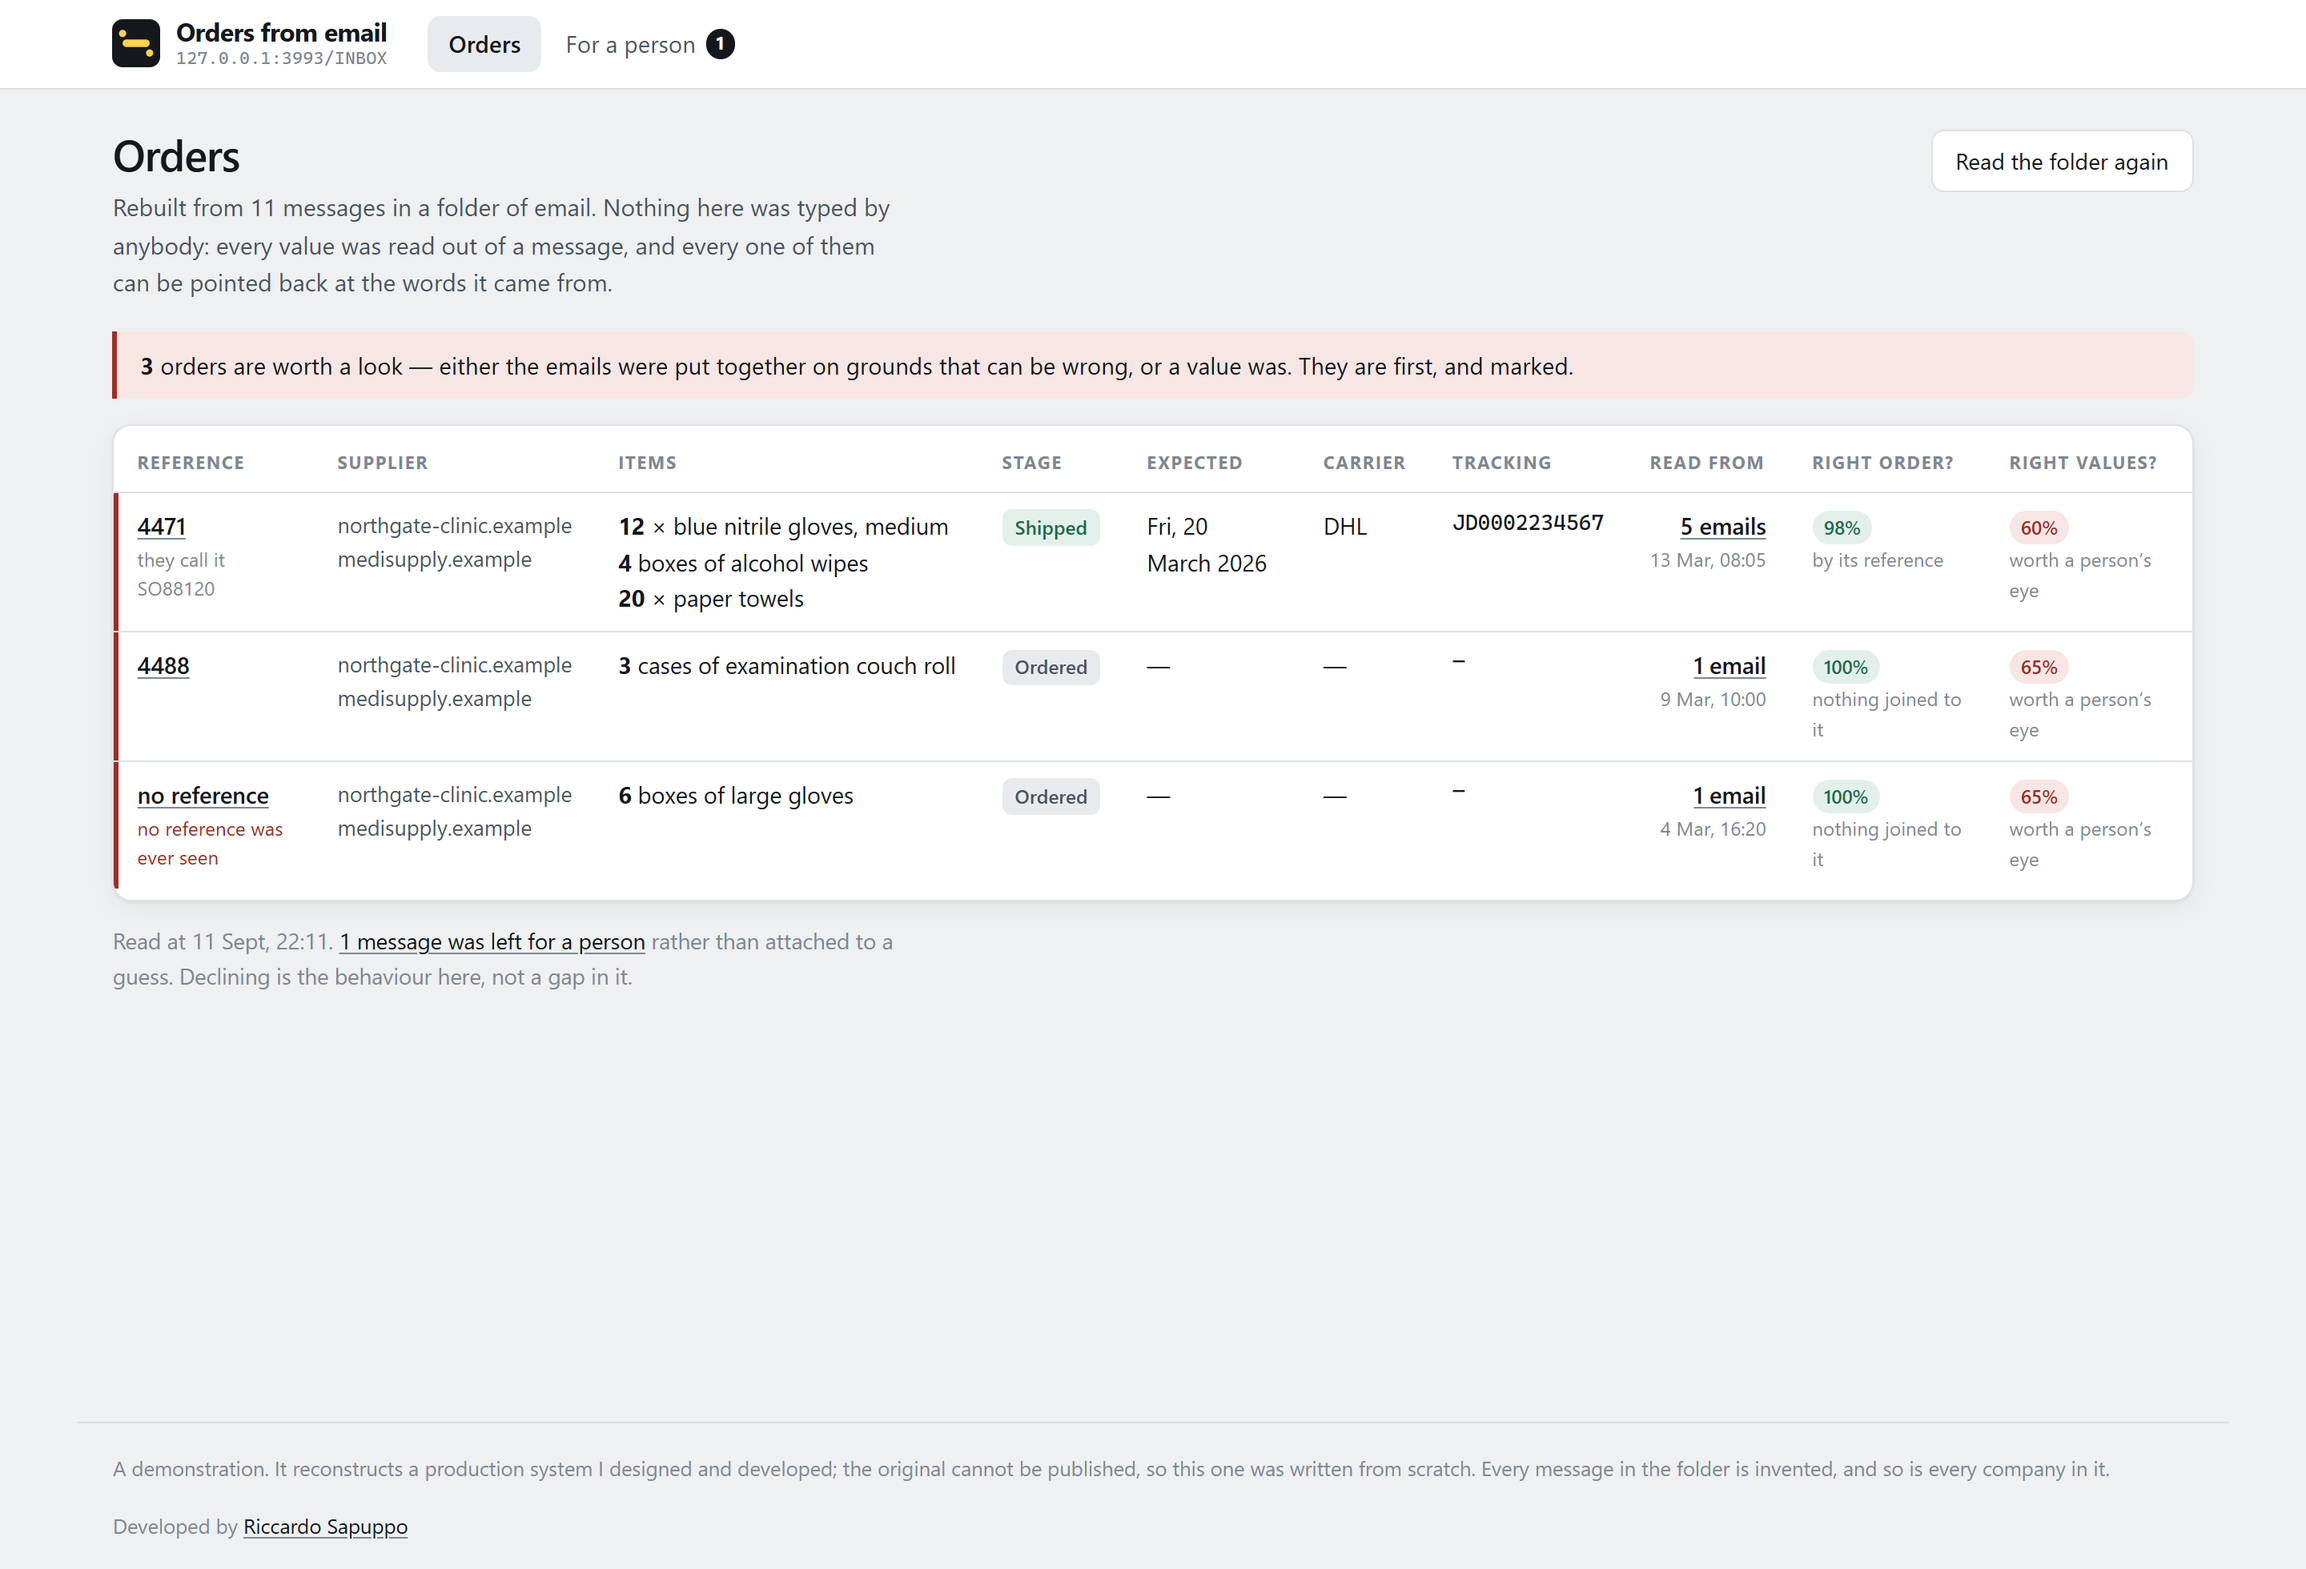
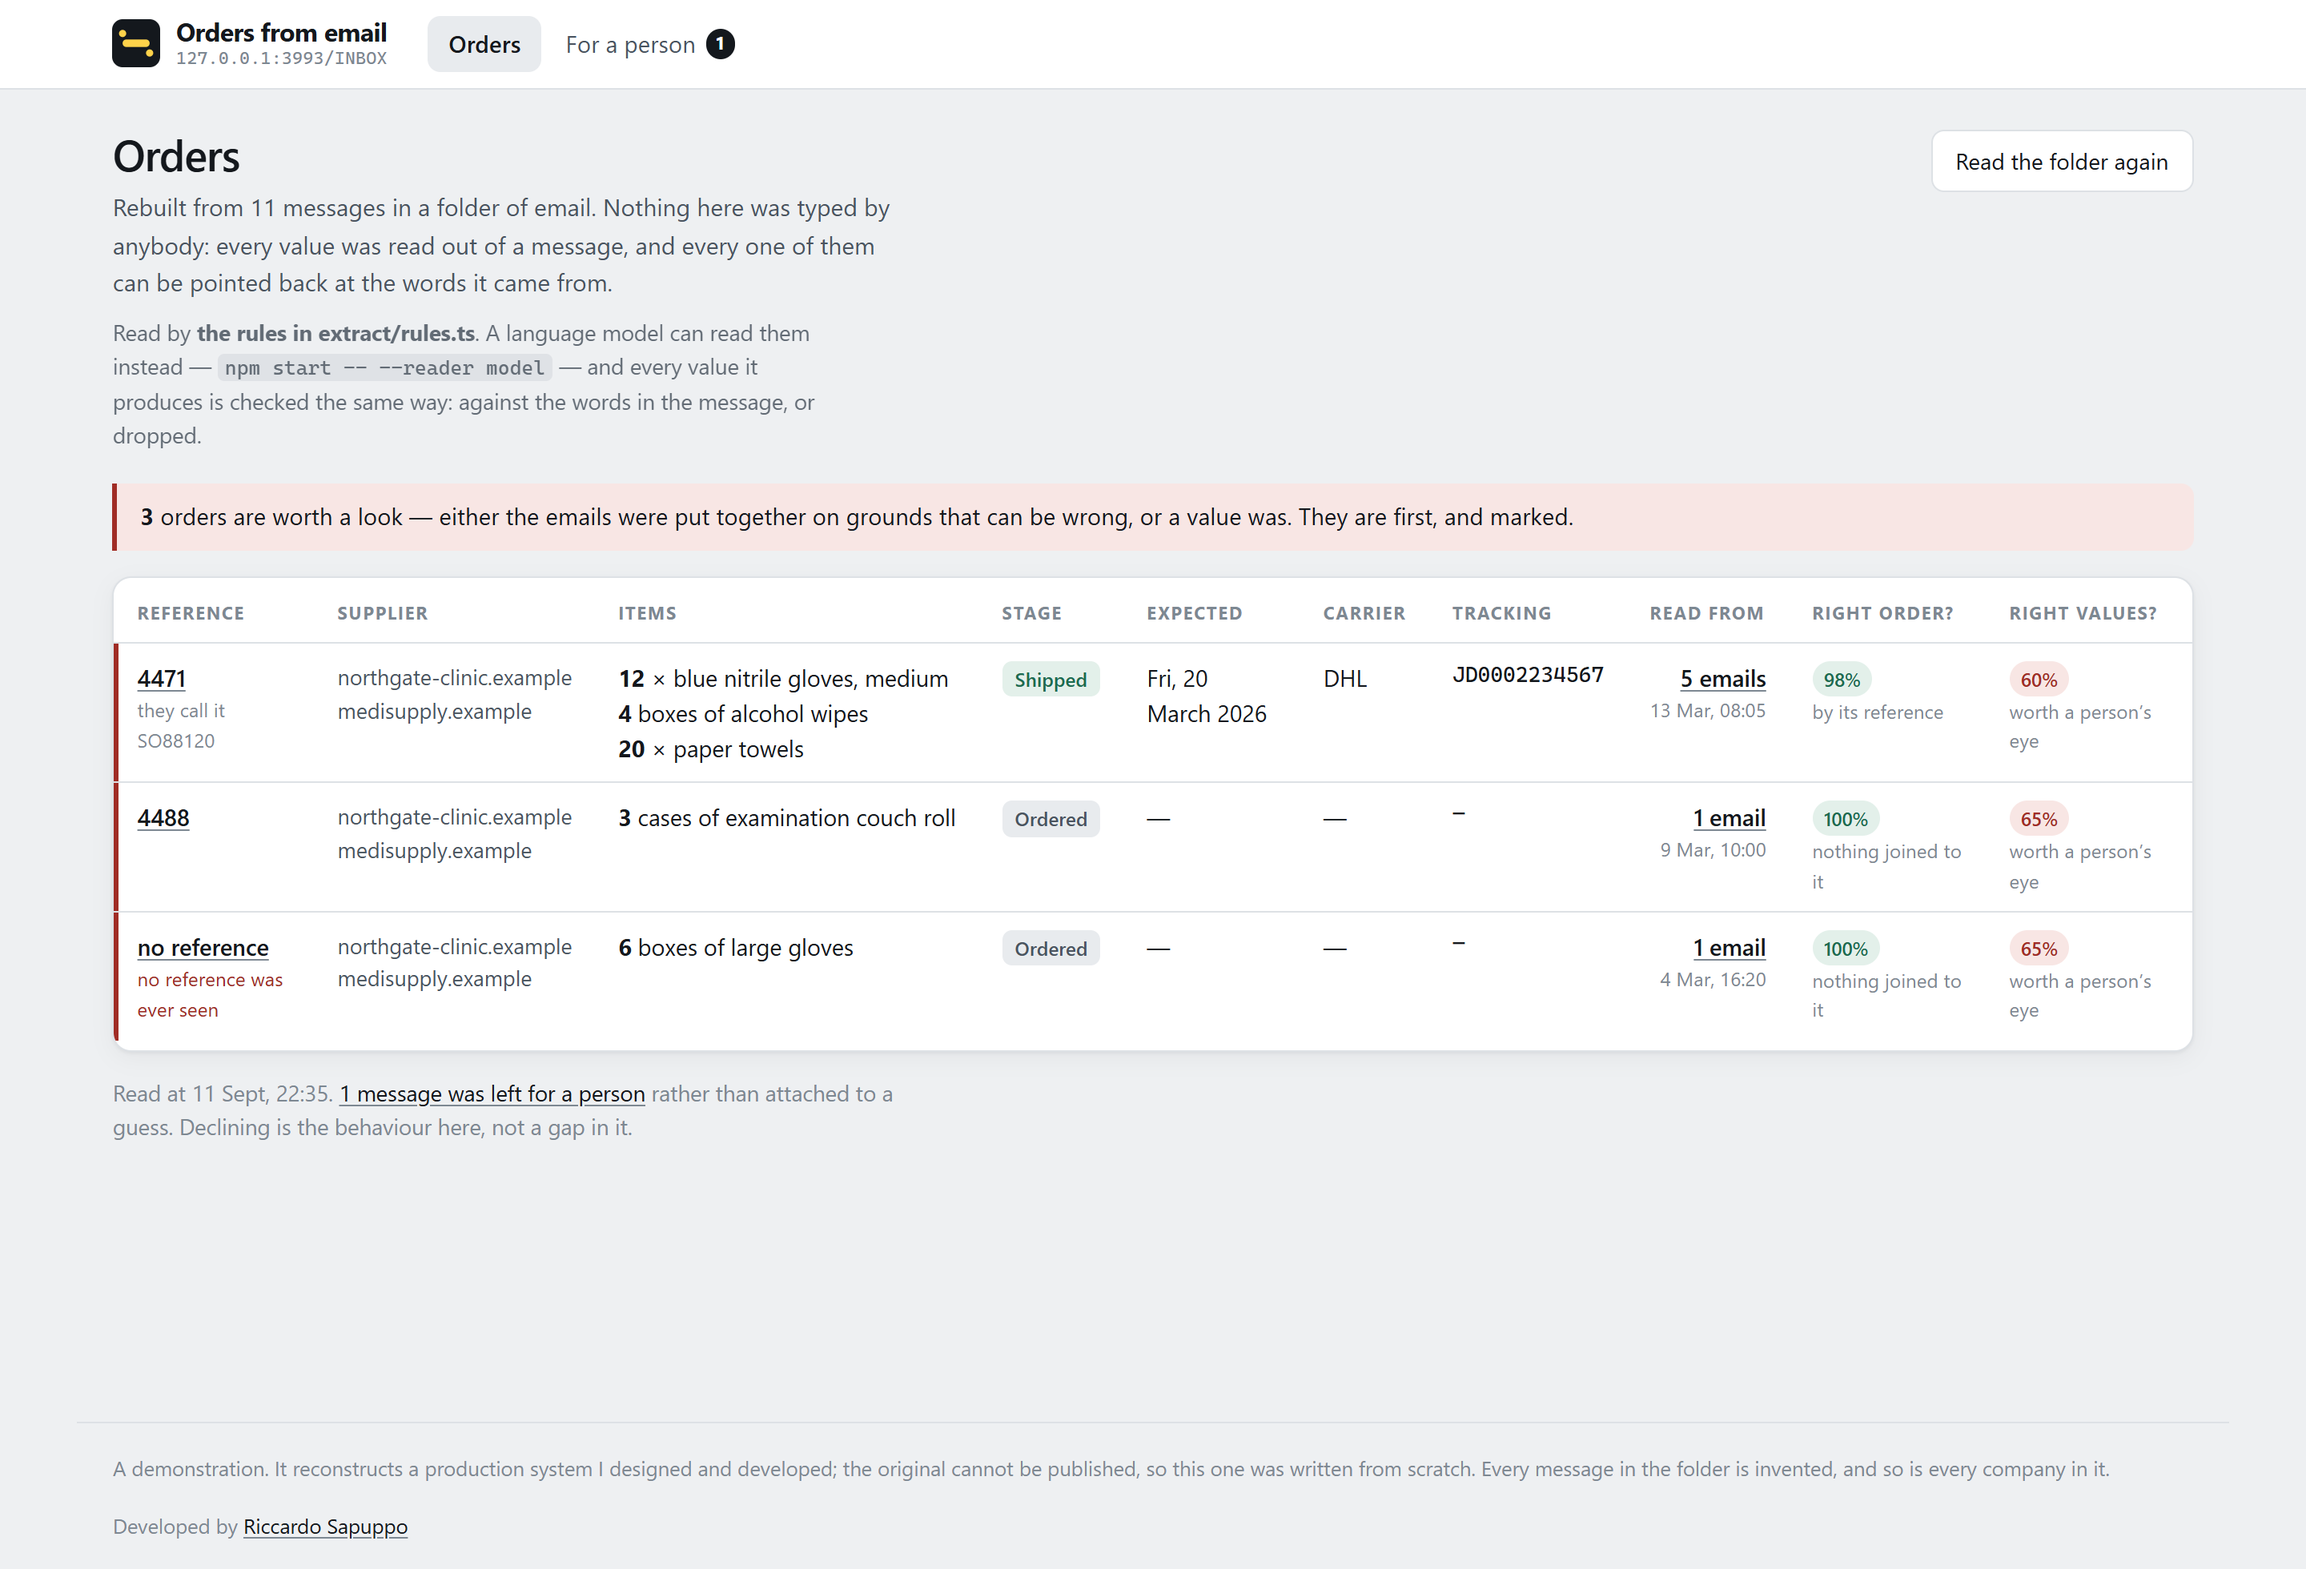
Saying what this is: to the port, and to the person looking at it
Two complaints, a day apart, with the same shape underneath: the program knew
something and did not say it.

── The port ────────────────────────────────────────────────────────────────

`npm start` built for fourteen seconds and then stopped: "Something is already
listening on 127.0.0.1:3993. Try: npm run mailbox -- --port 3994." What was on
3993 was a mailbox this project had started itself and not let go of. Refusing
is safe and useless; telling somebody to go and find it is telling them to do
the program's job.

Killing whatever is there would be worse. 3993, 3200 and 4300 are ports like any
others, and a tool that frees a port by killing the process on it will one day
kill something somebody was using.

So it asks what is there. Each of the three answers with something only it says:
the invented mailbox greets an IMAP client with its own name, the server answers
/api/health with the name of this project, and the interface serves a page with
this project's title in it. The right words mean a leftover of this project, and
it is stopped, by pid, and the run says which. Any other answer is a stranger:
left alone, quoted back -- "something else is there: {"status":"ok","what":...}"
-- so whoever is reading knows which window to close.

The start command and the checks share one list, so they cannot disagree about
what counts as ours. And nothing here trusts that a kill worked: it waits for the
port to actually come back and says so if it does not.
[…]

diff --git a/packages/web/src/app/orders/orders.component.ts b/packages/web/src/app/orders/orders.component.ts
@@ -43,6 +43,24 @@ import { day as asDay, shortWhen } from '../shell/dates';
           by anybody: every value was read out of a message, and every one of them
           can be pointed back at the words it came from.
         </p>
+
+        <!--
+          Which reader produced all of this, said on the page.
+
+          It was in the README and in the flag that chooses it, and nowhere a
+          person looking at the running thing could see. A page whose whole
+          argument is about how its values were obtained has to say which way it
+          obtained them -- and, while the answer is "the rules", that there is
+          another way to obtain them and it is held to the same standard.
+        -->
+        <p class="lede reader">
+          Read by <strong>{{ readBy() }}</strong>.
+          @if (couldBeAModel()) {
+            A language model can read them instead —
+            <code>npm start -- --reader model</code> — and every value it produces
+            is checked the same way: against the words in the message, or dropped.
+          }
+        </p>
       </div>
 
       <button type="button" class="quiet" (click)="reload()" [disabled]="loading()">
@@ -166,6 +184,8 @@ export class OrdersComponent {
   readonly readAt = signal<string | null>(null);
   readonly unlinked = signal(0);
   readonly counted = signal('a mailbox');
+  readonly readBy = signal('the rules');
+  readonly couldBeAModel = signal(true);
   readonly loading = signal(true);
   readonly problem = signal<string | null>(null);
 
@@ -206,6 +226,8 @@ export class OrdersComponent {
       next: (answer) => {
         this.orders.set(answer.orders);
         this.readAt.set(answer.readAt);
+        this.readBy.set(answer.readBy);
+        this.couldBeAModel.set(answer.couldBeAModel);
         this.loading.set(false);
       },
       error: () => {

diff --git a/packages/server/src/api.ts b/packages/server/src/api.ts
@@ -67,6 +67,16 @@ export function build({ folder, source, settings }: Options): Service {
   api.get('/api/health', (req, res) => {
     res.json({
       status: 'ok',
+
+      /*
+       * Which program this is, and not only that something answered.
+       *
+       * 3200 is a port like any other and the next thing to take it will also
+       * answer `{"status":"ok"}`. `npm start` stops what is on its ports only
+       * when what is on them says this — so a leftover of this project is
+       * cleared and a stranger is left alone and named. See tools/lib/ports.mjs.
+       */
+      what: 'order-email-extraction',
       folder: mailbox.folder,
       readAt: mailbox.readAt,
       messages: mailbox.entries.length,
@@ -79,6 +89,20 @@ export function build({ folder, source, settings }: Options): Service {
   api.get('/api/orders', (req, res) => {
     res.json({
       readAt: mailbox.readAt,
+
+      /*
+       * Who read them, sent so the interface can say it.
+       *
+       * Which reader is in use was, for a while, visible only in the README and
+       * in the flag that chooses it. Somebody looking at the running thing
+       * could not tell that a model was an option at all, and the values
+       * themselves only say so once a model has actually read one. A page that
+       * argues about how its values were obtained should say which way it
+       * obtained them.
+       */
+      readBy: settings.reader?.describes ?? 'the rules in extract/rules.ts',
+      couldBeAModel: !settings.reader || settings.reader.name === 'rules',
+
       orders: mailbox.orders.map(summarise),
     });
   });

diff --git a/packages/web/src/app/shell/api.service.ts b/packages/web/src/app/shell/api.service.ts
@@ -128,6 +128,19 @@ export interface Health {
   forAPerson: number;
 }
 
+/** What `GET /api/orders` answers with. */
+export interface TheOrders {
+  readAt: string;
+
+  /** Which reader produced every value below, in words, for the page to say. */
+  readBy: string;
+
+  /** Whether the other reader is still an option, so the page can mention it. */
+  couldBeAModel: boolean;
+
+  orders: OrderSummary[];
+}
+
 @Injectable({ providedIn: 'root' })
 export class ApiService {
   private readonly http = inject(HttpClient);
@@ -136,8 +149,8 @@ export class ApiService {
     return this.http.get<Health>('/api/health');
   }
 
-  orders(): Observable<{ readAt: string; orders: OrderSummary[] }> {
-    return this.http.get<{ readAt: string; orders: OrderSummary[] }>('/api/orders');
+  orders(): Observable<TheOrders> {
+    return this.http.get<TheOrders>('/api/orders');
   }
 
   order(key: string): Observable<{ order: OrderSummary; messages: LinkedMessage[] }> {

diff --git a/packages/web/src/app/orders/orders.component.css b/packages/web/src/app/orders/orders.component.css
@@ -33,3 +33,19 @@ td a {
     min-width: 58rem;
   }
 }
+
+/* Who read all of this. Quieter than the paragraph above it: it is a fact
+   about the page rather than part of the argument, and the command in it is
+   for somebody who wants to try the other reader, not for everybody. */
+.lede.reader {
+  margin-top: 0.55rem;
+  font-size: 0.86rem;
+  opacity: 0.85;
+}
+
+.lede.reader code {
+  font-size: 0.92em;
+  padding: 0.05rem 0.3rem;
+  border-radius: 0.25rem;
+  background: color-mix(in srgb, currentColor 10%, transparent);
+}

diff --git a/README.md b/README.md
@@ -231,6 +231,20 @@ machine uses in turn, and a browser remembers things per origin (service
 workers, storage, permissions), so two projects sharing a port share state
 neither knows about. An hour went into learning that.
 
+**A busy port is asked what it is, not simply refused.** Starting used to stop
+and say the port was taken, which is safe and useless: the usual thing on it is
+a mailbox this project started ten minutes earlier and did not let go of, and
+telling somebody to go and find it is telling them to do the program's job. It
+does not kill whatever is there either — a tool that frees a port by killing the
+process on it will one day kill something somebody was using.
+
+So each of the three is asked. The invented mailbox greets an IMAP client with
+its own name, the server answers `/api/health` with the name of this project,
+and the interface serves a page with this project's title in it. Something that
+answers with the right words is a leftover of this project and is stopped; any
+other answer is a stranger, and the run says what it saw and stops instead of
+touching it. A port that answers is not proof that what answered is yours.
+
 ## The eleven messages
 
 `mail/` holds a mailbox built to exercise the cases that are actually hard.
